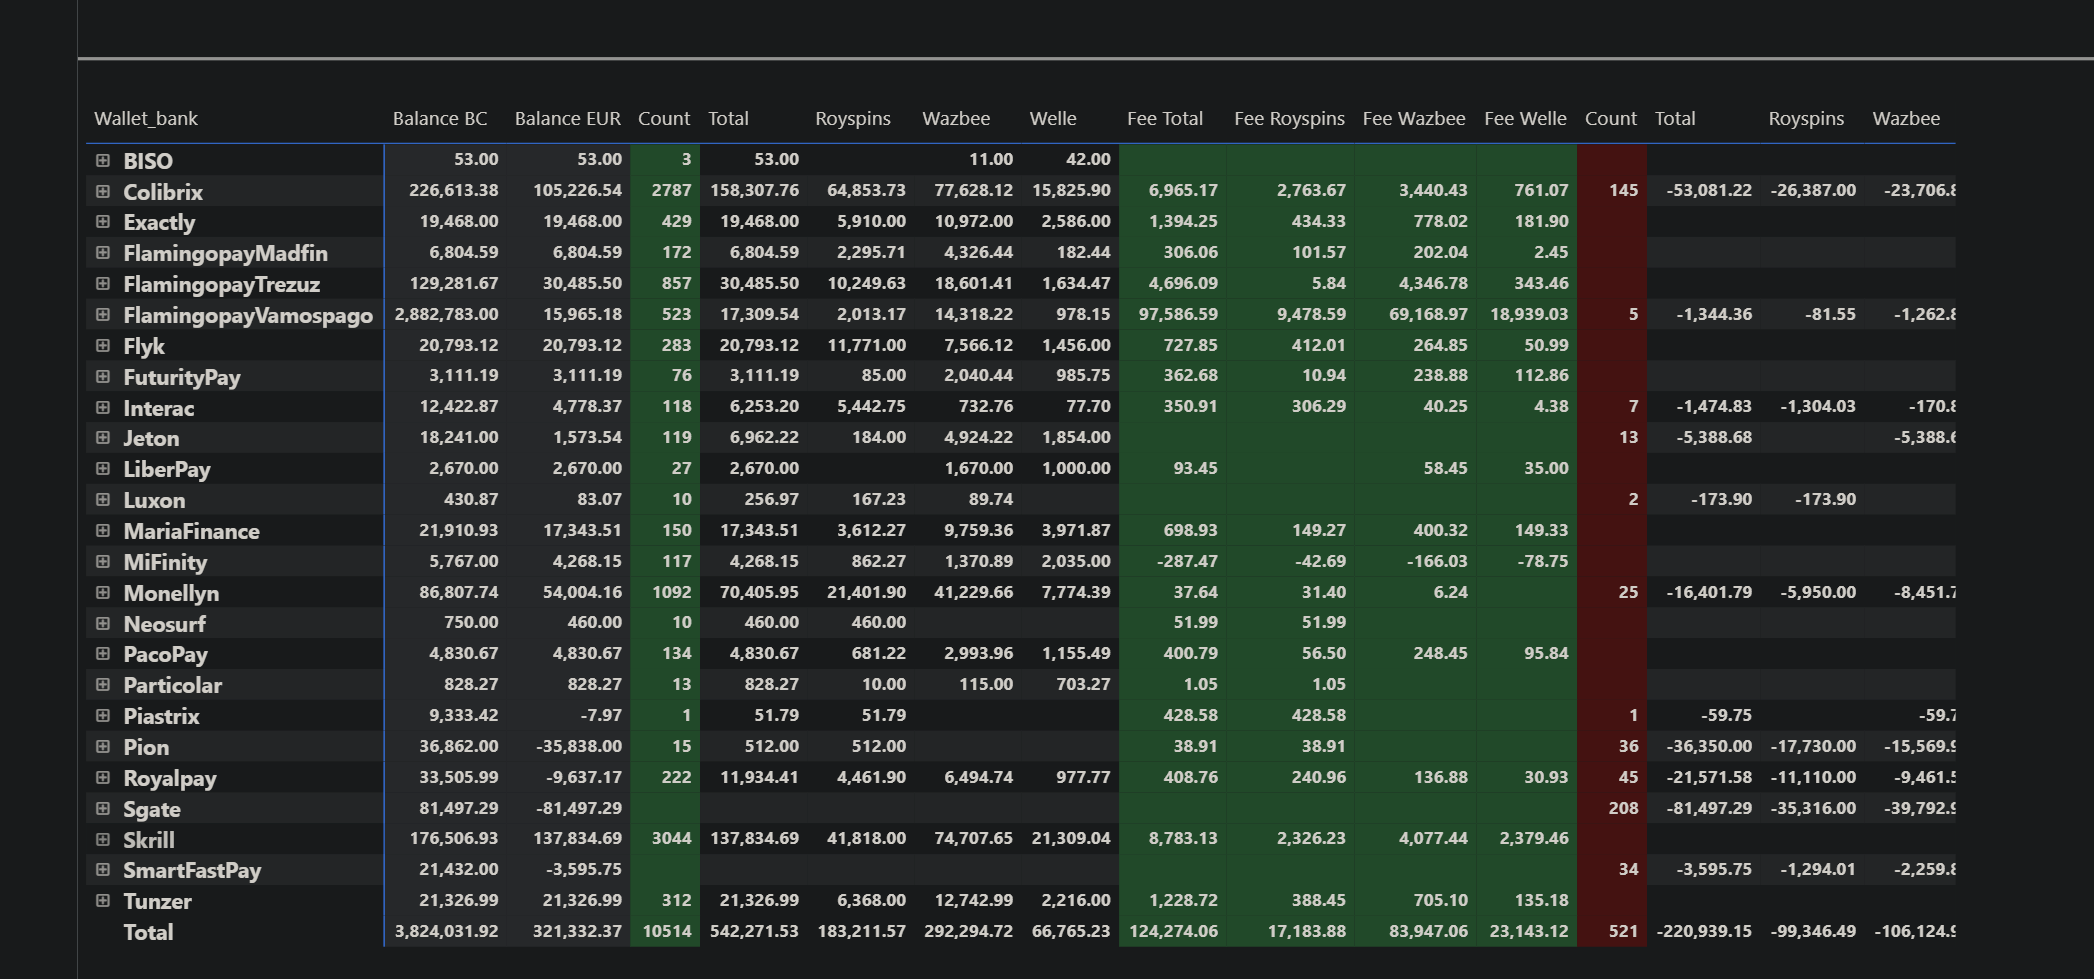
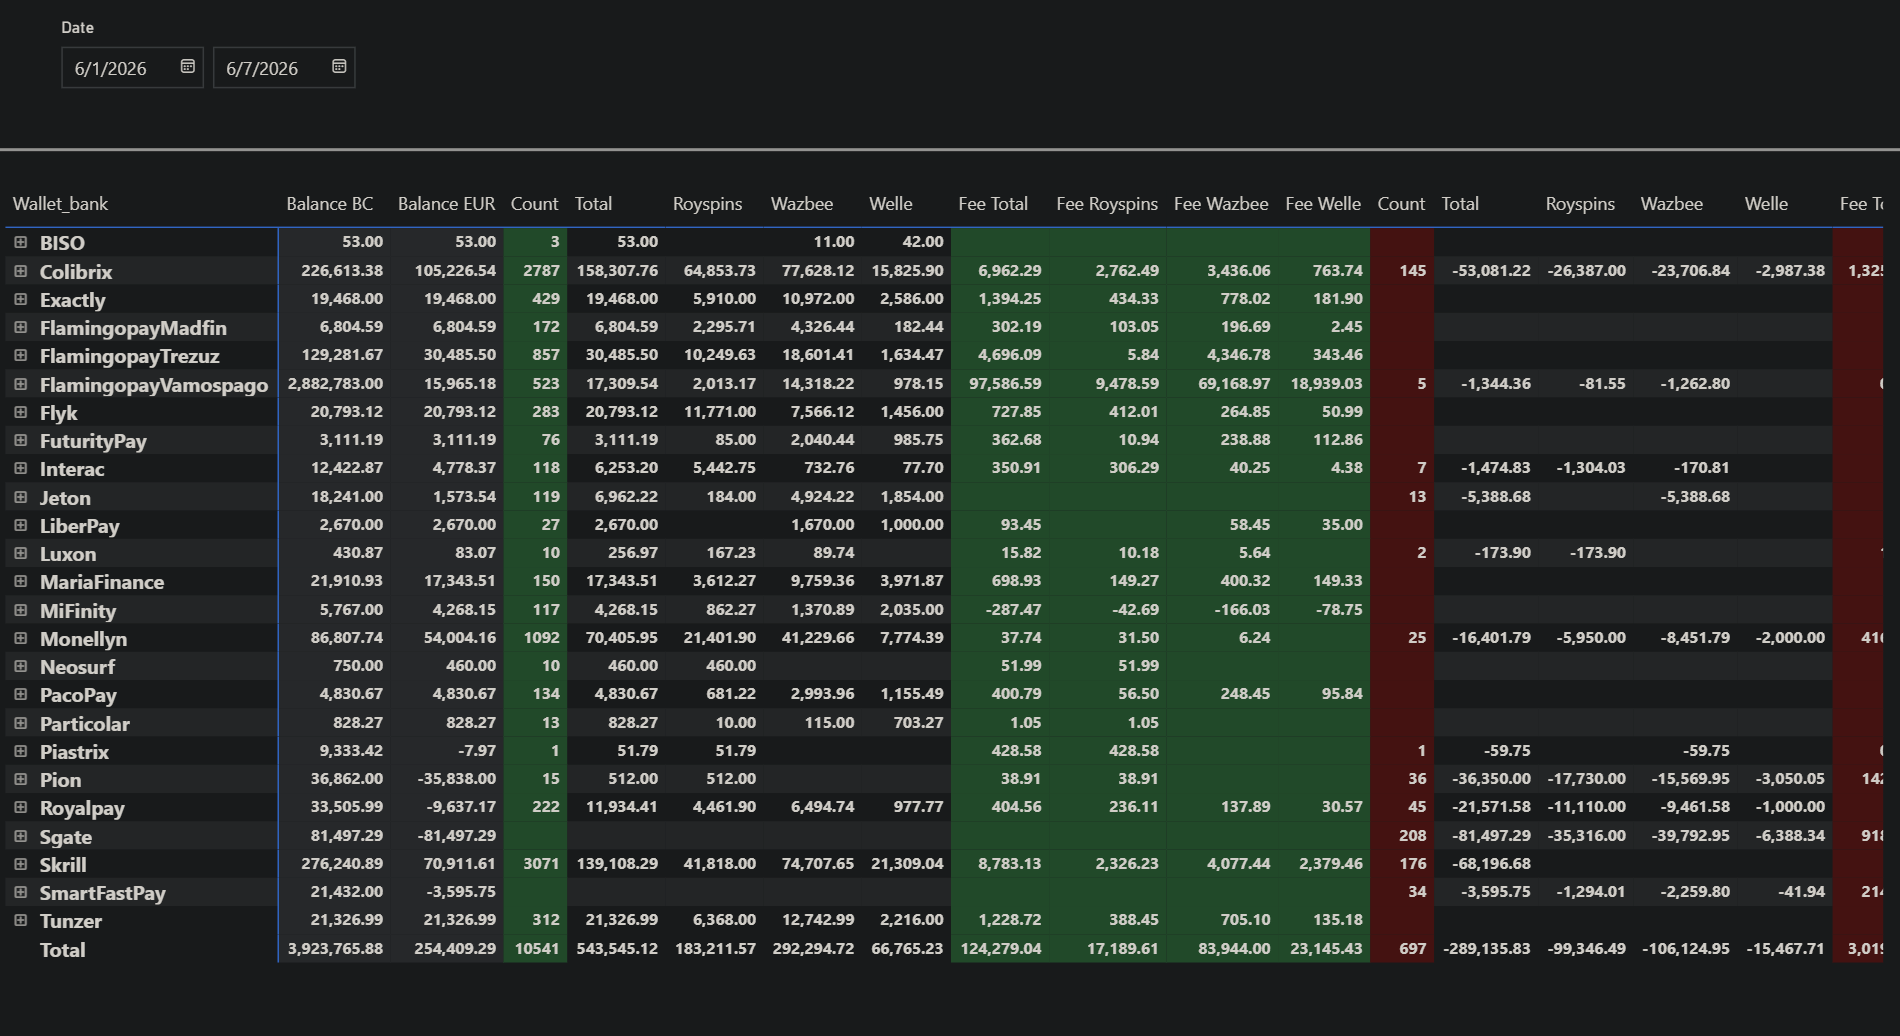
pb3

diff --git a/powerbi/readme.md b/powerbi/readme.md
@@ -2,11 +2,13 @@
 
 # Wallet Performance Dashboard
 
-The Wallet Performance dashboard provides a consolidated financial overview of all payment providers.
+The Wallet Performance dashboard provides a consolidated financial overview of balances, deposits, withdrawals, commissions, and payment provider performance.
 
 <p align="center">
-  <img src="screenshots/wallet_performance.png" width="100%">
+  <img src="screenshots/wallet_performance.png" width="95%">
 </p>
+
+The report supports hierarchical drill-down from provider level to wallet accounts and currencies while preserving consolidated financial metrics.
 
 ## Overview
 